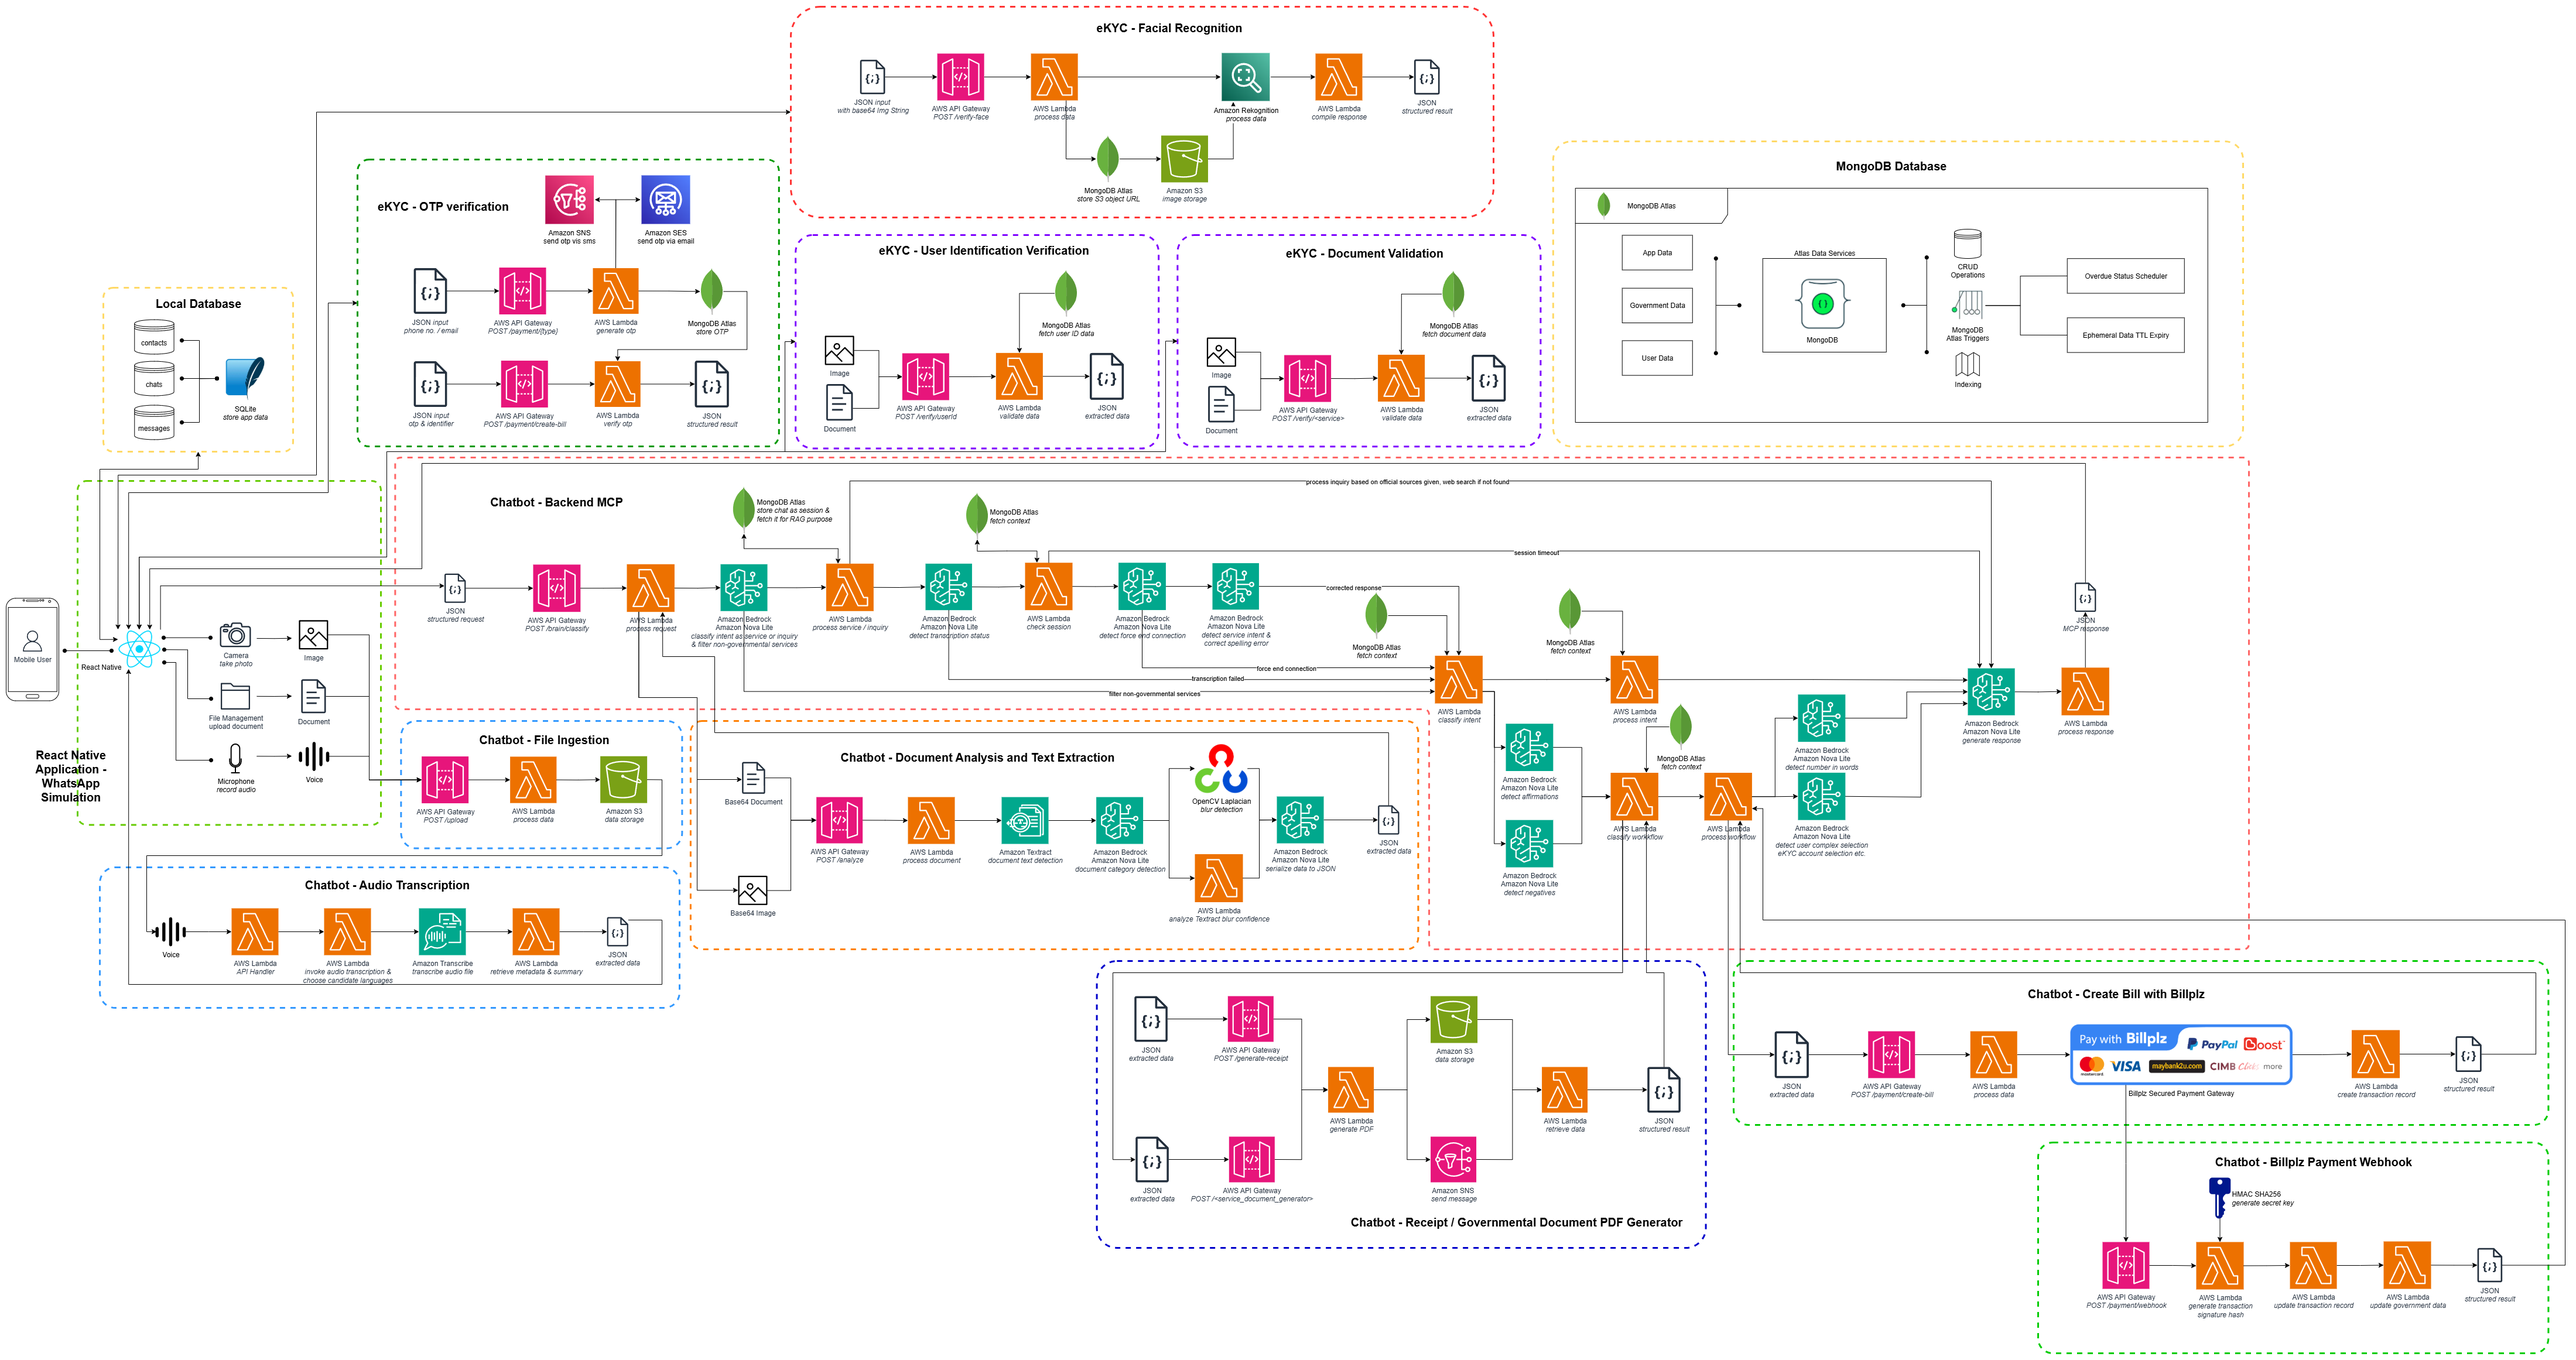
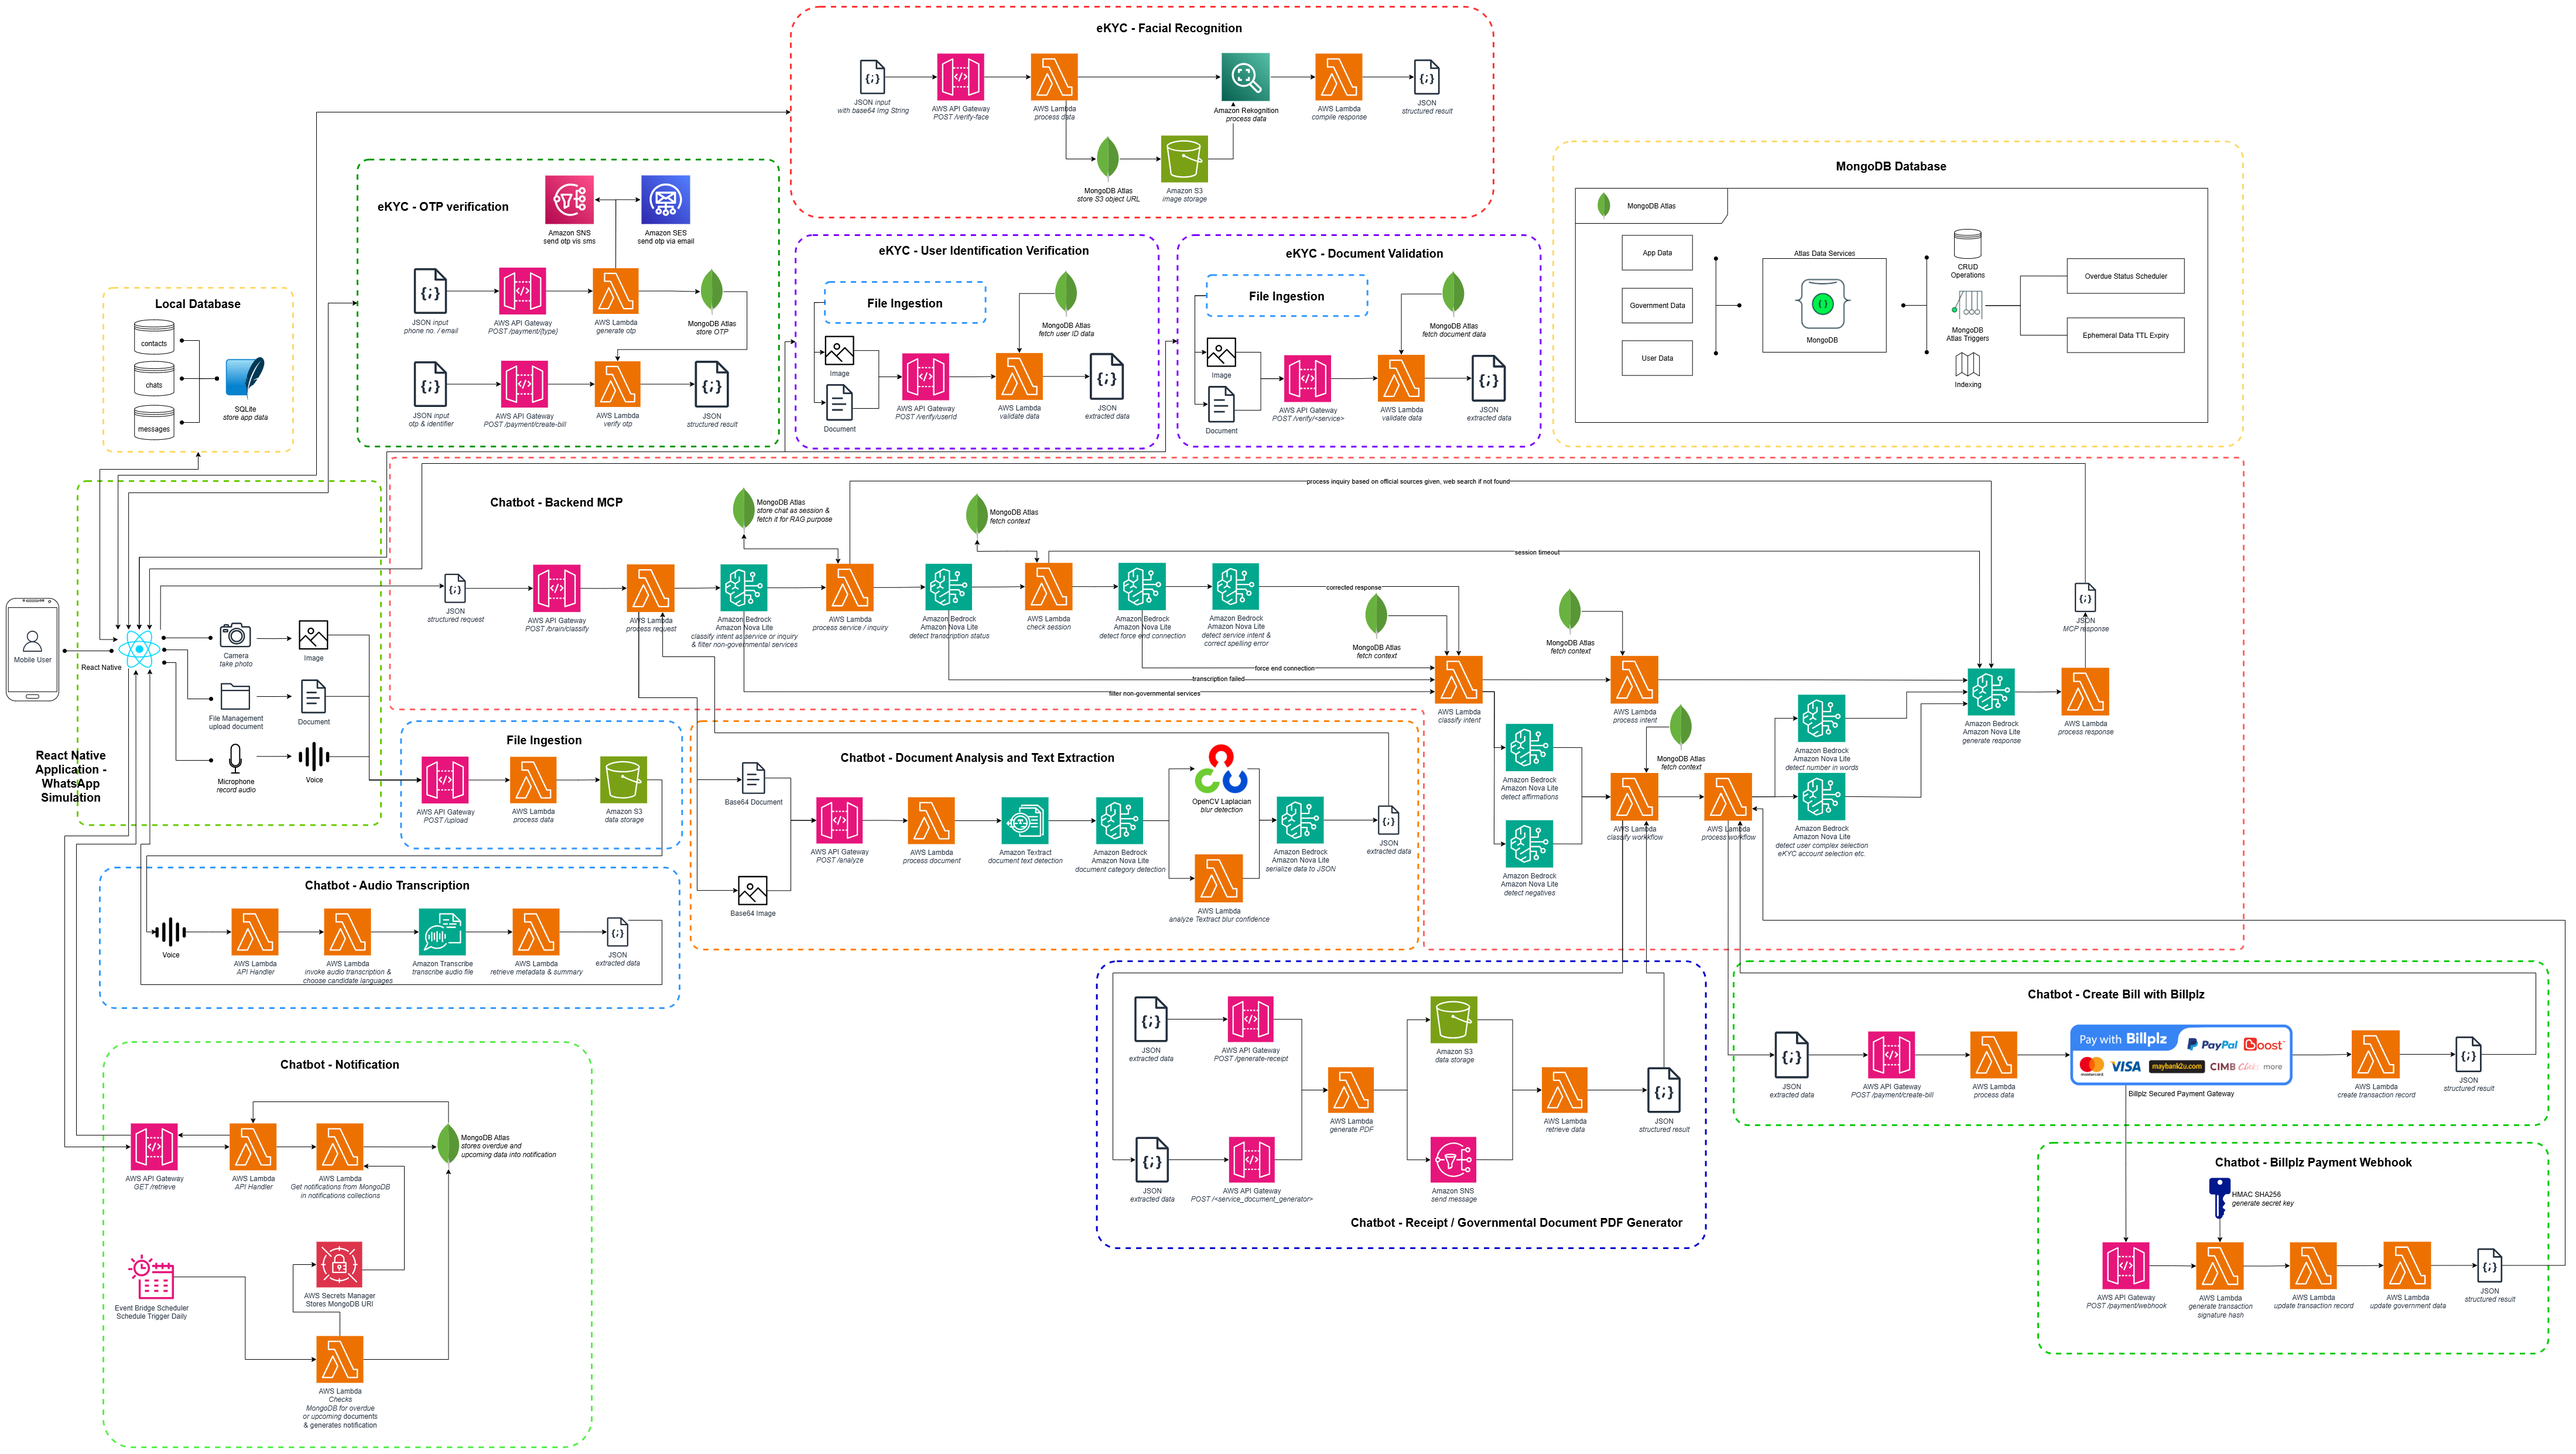
Update README to include full architectural diagram and enhance interface screenshots for better visualization

diff --git a/profile/readme.md b/profile/readme.md
@@ -1,6 +1,6 @@
 # MyGovHub
 
-![Architecture Diagram](assets/MyGovHub-Logo-Dark.png)
+<img src="assets/MyGovHub-Logo-Dark.png" alt="The full Architecture Diagram of this system"/>
 
 
 ## 📘 Project Overview
@@ -68,11 +68,26 @@ MyGov Hub's architecture is a multi-layered, serverless system designed for effi
 
 
 ## 📱 MyGovHub Interface Overview
-<!-- ![Welcome Page](assets/interface_entry_page.jpeg) -->
-<img src="assets/interface_entry_page.jpeg" alt="Screenshot of the applications's welcome page" height="600"/>
+<div style="display: flex; justify-content: center; align-items: center; gap: 20px; flex-wrap: wrap;">
 
-<!-- ![Chatbot](assets/interface_chatbot.jpeg) -->
-<img src="assets/interface_chatbot.jpeg" alt="Screenshot of chatting wiht the chatbot" height="600"/>
+  <div style="text-align: center;">
+    <img src="assets/interface_entry_page.jpeg" alt="Welcome Page" height="400" style="border:none; outline:none;"/><br/>
+    <b>Welcome Page</b>
+  </div>
+
+  <div style="text-align: center;">
+    <img src="assets/interface_chatbot.jpeg" alt="Chatbot Screen" height="400" style="border:none; outline:none;"/><br/>
+    <b>Chatbot Conversation</b>
+  </div>
+
+  <div style="text-align: center;">
+    <img src="assets/interface_settings.jpeg" alt="Settings Page" height="400" style="border:none; outline:none;"/><br/>
+    <b>Settings Page</b>
+  </div>
+
+</div>
+
+
 
 
 ## 🧩 Systems and Repositories
